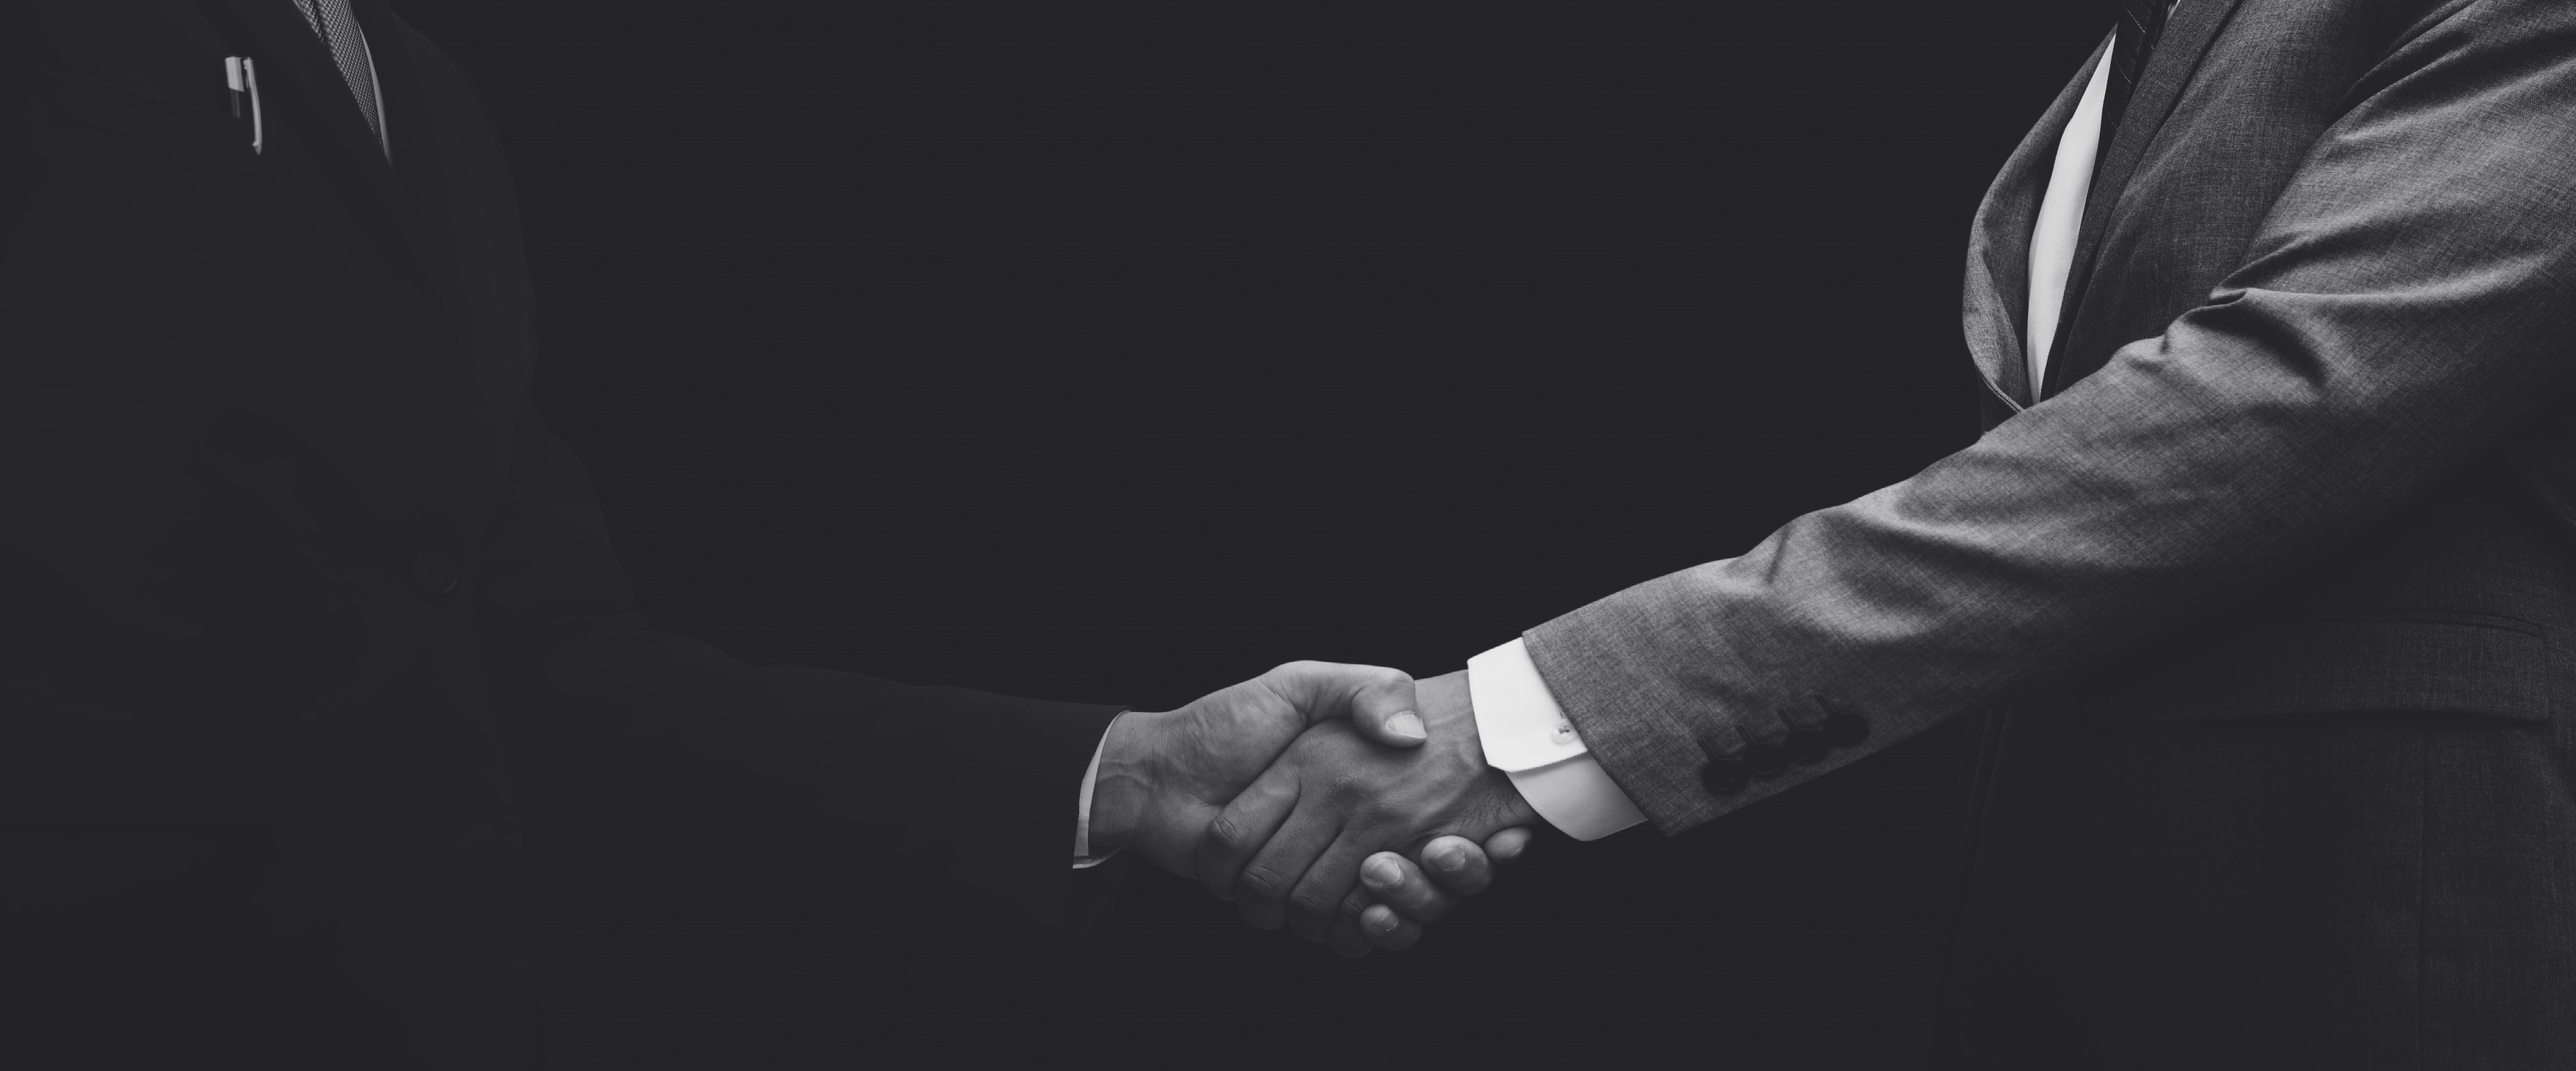
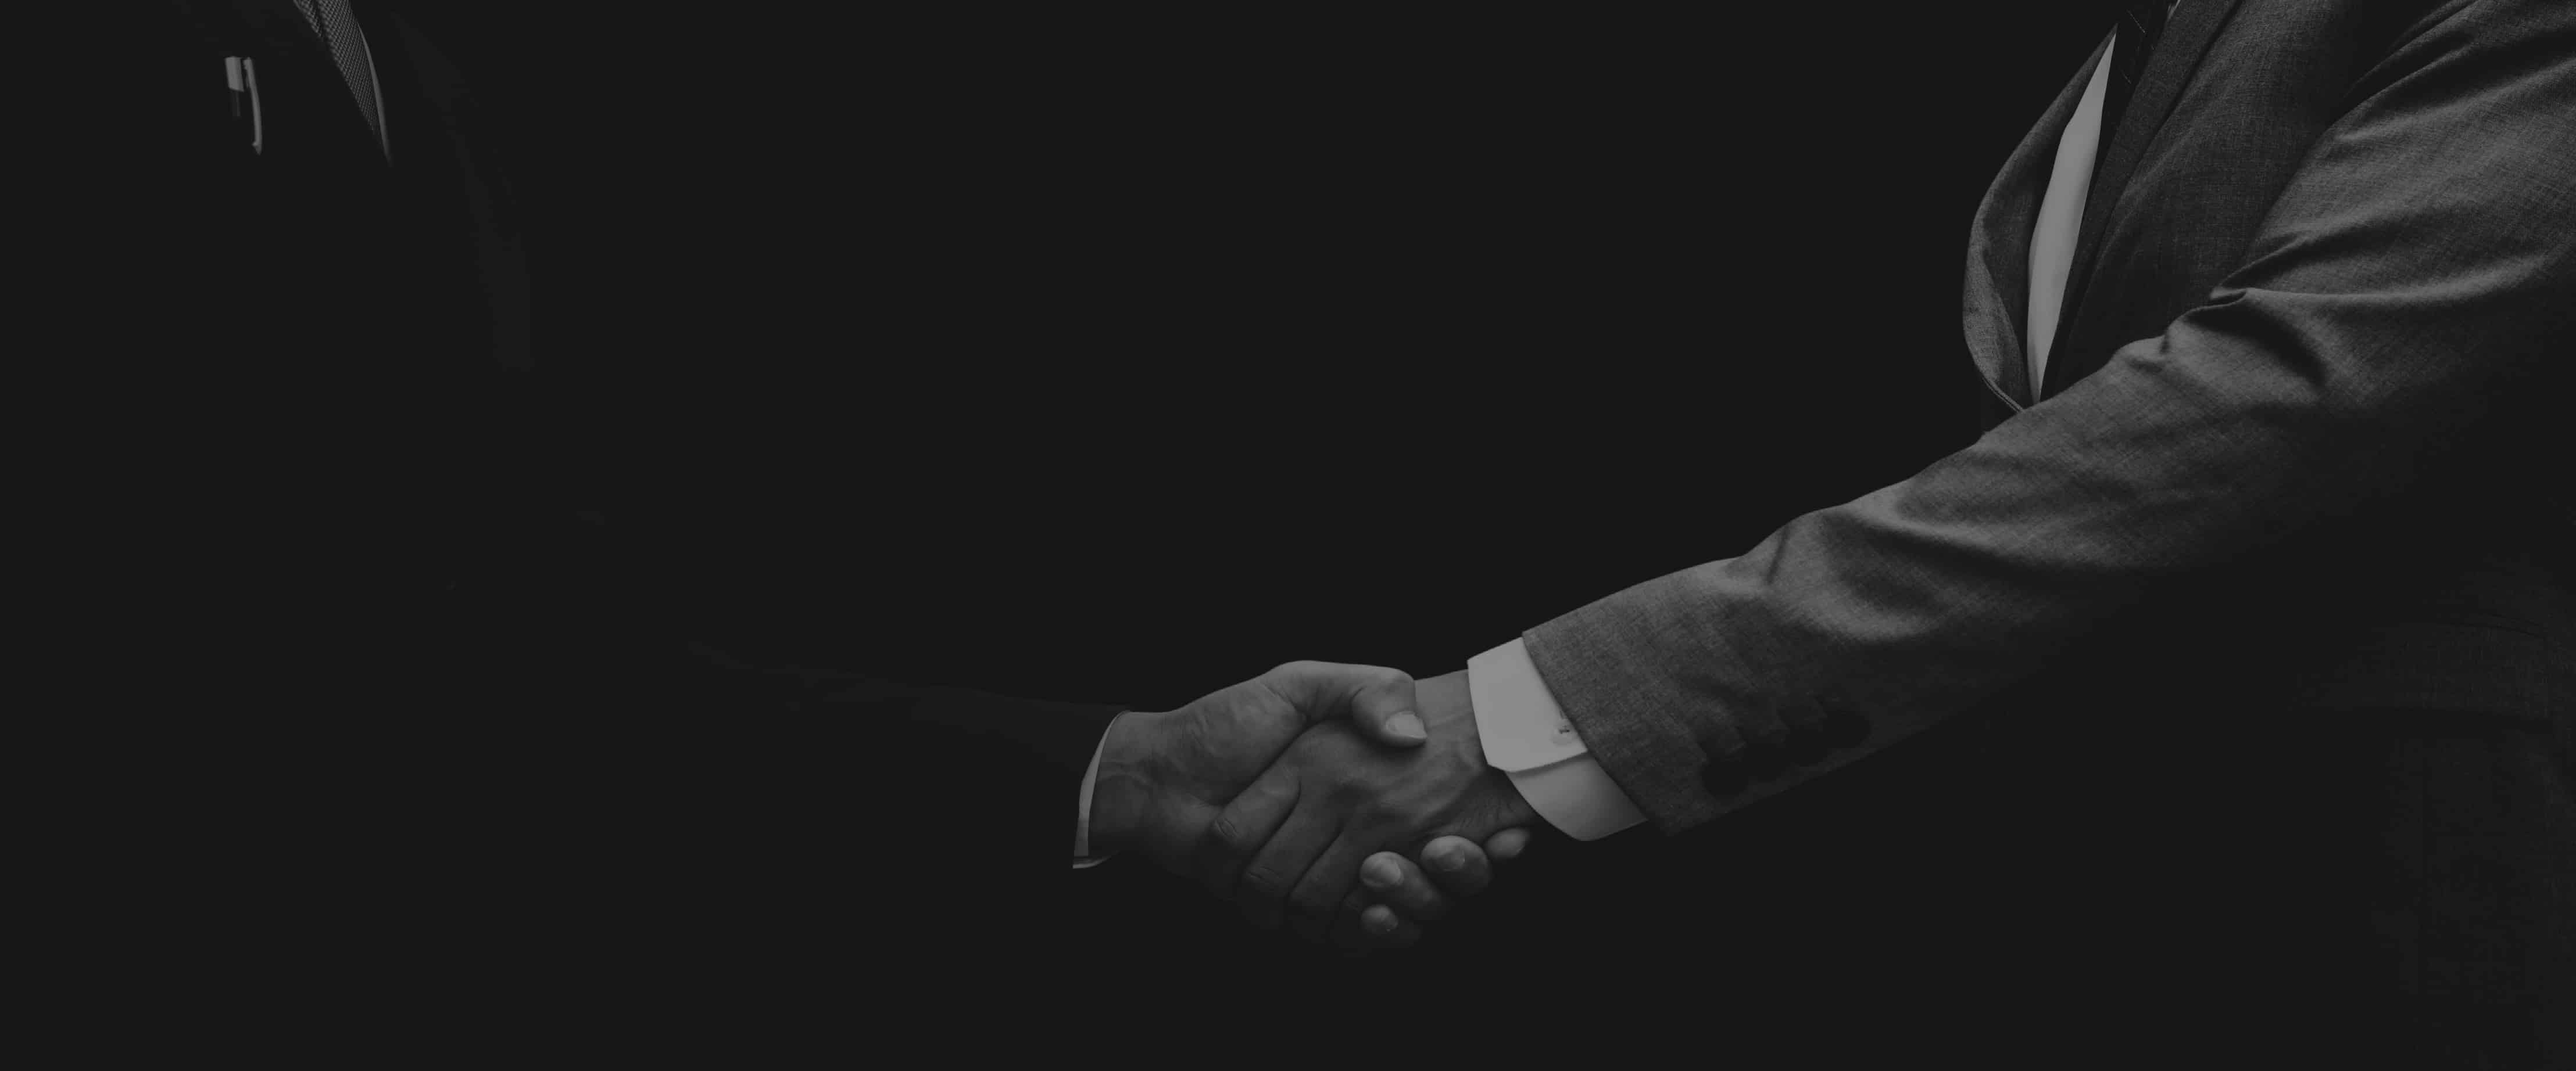
Using the compressed jpg for production

diff --git a/Sections/CallToAction/CallToAction.jsx b/Sections/CallToAction/CallToAction.jsx
@@ -4,7 +4,7 @@ import React from "react";
 
 const CallToAction = () => {
   return (
-    <div className="bg-primary bg-[url(/images/cta.png)] bg-no-repeat bg-center bg-cover">
+    <div className="bg-primary bg-[url(/images/cta.jpg)] bg-no-repeat bg-center bg-cover">
       <Container className="py-20 z-10">
         <div className="p-10 rounded-2xl text-center">
           <h1 className="text-2xl sm:text-3xl md:text-4xl font-bold text-zinc-300 font-montserrat">
